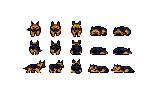
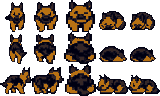
feat(pets): shepherd variant + oversized-source resampler in loader
- Adds dog_shepherd.png (160×96 RGBA, generated via ChatGPT) so a German
  shepherd is available as a pet variant out of the box.
- Loader (loadPetSprites) now handles three input sizes:
    * 80×48  → legacy 16×16 cells, 2× upscale (unchanged)
    * 160×96 → native 32×32 cells, pixel-perfect (unchanged)
    * other  → resample via new pngToSpriteDataResampled (nearest-from-center)
  This lets community variants in non-native sizes load without a manual
  preprocess step.
- scripts/integrate-sprite-sheet.mjs: bump char cell to 24×32 (matches the
  runtime loader bump) and document the non-uniform-grid detector — ChatGPT
  doesn't lay frames out on a strict 1/cols × 1/rows grid, so the script
  uses transparent gaps as separators.

diff --git a/standalone-server.js b/standalone-server.js
@@ -661,6 +661,40 @@ function pngToSpriteData(png, x, y, w, h) {
   return sprite;
 }
 
+/**
+ * Extract a source rect from `png` and resample it to an `outW × outH` SpriteData
+ * by nearest-from-center sampling: each output pixel takes the color of the
+ * source pixel at the center of its corresponding source block.
+ *
+ * When srcW === outW && srcH === outH this is equivalent to `pngToSpriteData`
+ * (pixel-perfect). When the source rect is larger (e.g. ChatGPT renders pixel
+ * art at 9.6× the logical grid), this preserves the most representative color
+ * of each logical pixel without blending neighbors.
+ */
+function pngToSpriteDataResampled(png, srcX, srcY, srcW, srcH, outW, outH) {
+  const sprite = [];
+  const scaleX = srcW / outW;
+  const scaleY = srcH / outH;
+  for (let row = 0; row < outH; row++) {
+    const line = [];
+    const sy = srcY + Math.floor((row + 0.5) * scaleY);
+    for (let col = 0; col < outW; col++) {
+      const sx = srcX + Math.floor((col + 0.5) * scaleX);
+      const idx = (sy * png.width + sx) * 4;
+      const a = png.data[idx + 3];
+      if (a < PNG_ALPHA_THRESHOLD) { line.push(''); }
+      else {
+        const r = png.data[idx];
+        const g = png.data[idx + 1];
+        const b = png.data[idx + 2];
+        line.push('#' + ((1 << 24) + (r << 16) + (g << 8) + b).toString(16).slice(1));
+      }
+    }
+    sprite.push(line);
+  }
+  return sprite;
+}
+
 // Community-installed character sprites live here (downloaded via "Use this
 // Character" from the gallery). Bundled chars keep their stable numeric
 // indices; community chars are appended after them sorted by id, so existing
@@ -751,15 +785,38 @@ async function loadPetSprites() {
     const [, species, variant] = m;
     try {
       const png = await loadPng(filePath);
+      // Three loading paths:
+      //   - Legacy 80×48: 16×16 cells, upscale 2× to 32×32 logical
+      //   - Native 160×96: 32×32 cells, pixel-perfect 1:1
+      //   - Oversize (any larger 5×3 grid, e.g. ChatGPT's 1536×1024):
+      //     resample by nearest-from-center per logical pixel. Each cell logical
+      //     size stays 32×32 so the renderer sees a uniform sprite shape.
       const isLegacy16 = png.width === 80 && png.height === 48;
-      const cell = isLegacy16 ? 16 : 32;
+      const isNative = png.width === 160 && png.height === 96;
+      const isOversize = !isLegacy16 && !isNative && png.width % 5 === 0 && png.height % 3 === 0;
       const directions = { down: [], up: [], right: [] };
       const dirNames = ['down', 'up', 'right'];
       const colorCounts = new Map();
+      // Source cell dimensions in raster pixels
+      const srcCellW = isLegacy16 ? 16 : Math.round(png.width / 5);
+      const srcCellH = isLegacy16 ? 16 : Math.round(png.height / 3);
       for (let d = 0; d < 3; d++) {
         for (let frame = 0; frame < 5; frame++) {
-          let sprite = pngToSpriteData(png, frame * cell, d * cell, cell, cell);
-          if (isLegacy16) sprite = upscaleSpriteData(sprite, 2);
+          let sprite;
+          if (isLegacy16) {
+            sprite = pngToSpriteData(png, frame * 16, d * 16, 16, 16);
+            sprite = upscaleSpriteData(sprite, 2);
+          } else if (isNative) {
+            sprite = pngToSpriteData(png, frame * 32, d * 32, 32, 32);
+          } else {
+            // Oversize (or non-standard ratio that still divides cleanly): resample
+            sprite = pngToSpriteDataResampled(
+              png,
+              frame * srcCellW, d * srcCellH,
+              srcCellW, srcCellH,
+              32, 32,
+            );
+          }
           for (const row of sprite) {
             for (const px of row) {
               if (!px) continue;
@@ -776,6 +833,8 @@ async function loadPetSprites() {
       if (!result[species]) result[species] = {};
       result[species][variant] = { ...directions, palette };
       if (isLegacy16) console.log(`  pet ${filename}: 16×16 legacy upscaled 2× → 32×32`);
+      else if (isOversize) console.log(`  pet ${filename}: ${png.width}×${png.height} oversize, resampled cell ${srcCellW}×${srcCellH} → 32×32`);
+      else if (!isNative) console.log(`  pet ${filename}: non-standard ${png.width}×${png.height}, attempting resample`);
     } catch (e) {
       console.error(`  pet sprite ${filename} failed:`, e.message);
     }
